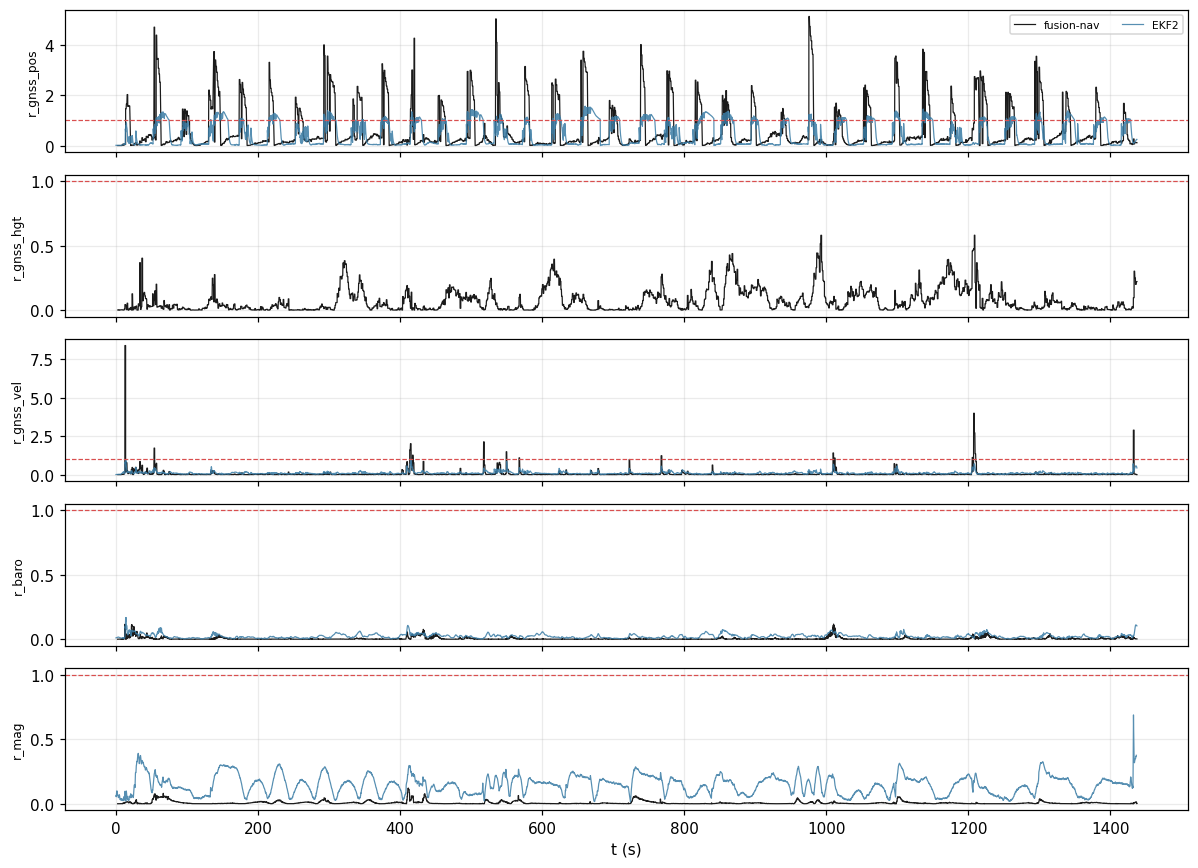
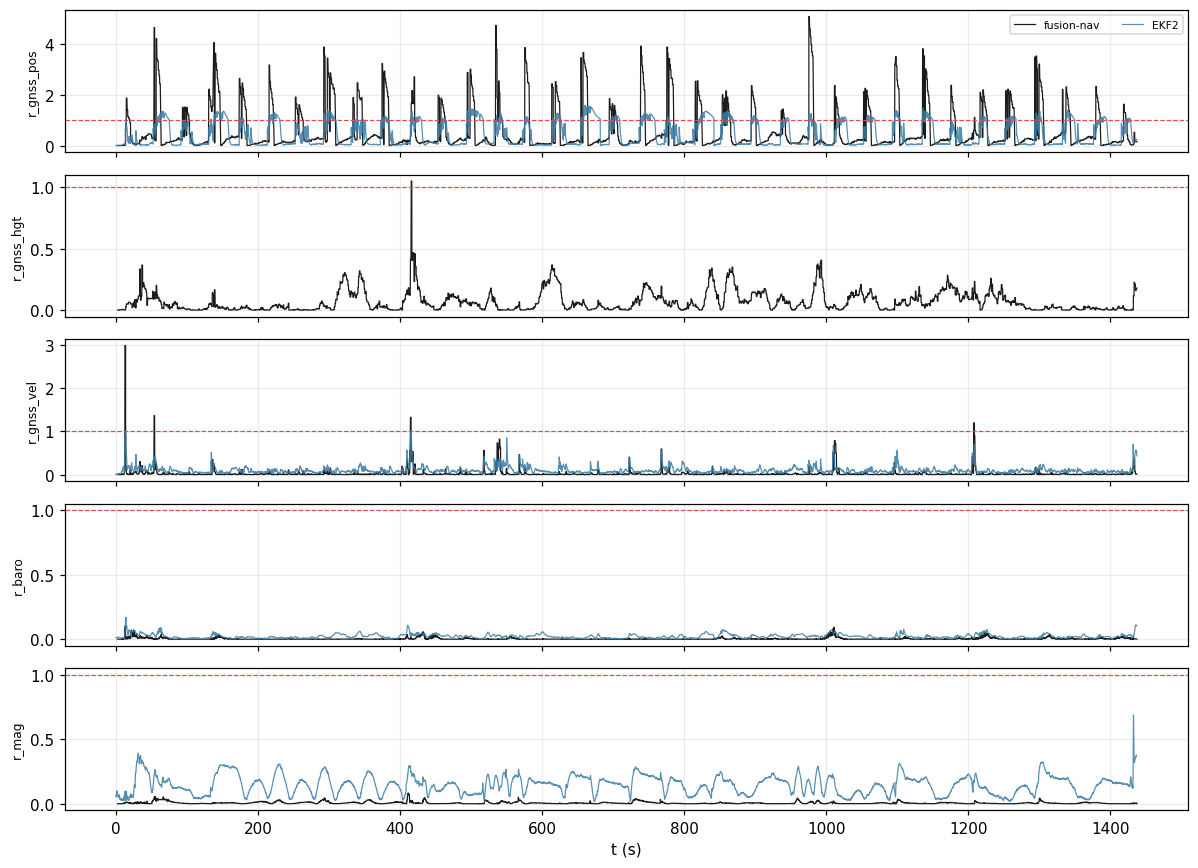
validation: regenerate (#52)

diff --git a/validation/ekf2.md b/validation/ekf2.md
@@ -2,13 +2,13 @@
 # Agreement with EKF2
 
 **On real flights, does it agree with the estimator PX4 flies?** Mostly, and closely. On the log
-with the most precise receiver (RTK), velocity agrees to 0.1064
-m/s RMS north and tilt to 0.3702° RMS. Where the two differ,
+with the most precise receiver (RTK), velocity agrees to 0.04821
+m/s RMS north and tilt to 0.2420° RMS. Where the two differ,
 the log usually shows why: a receiver that overstates its accuracy, a hand launch this filter
 levels wrong, and a barometer the two filters trust differently. One offset has no explanation
 yet, and is marked as open.
 
-Generated by `tools/validation.sh` at `21e6a39`; every figure on this page is from that build, and `tools/validation.sh --check` re-derives them.
+Generated by `tools/validation.sh` at `c0b3a4a`; every figure on this page is from that build, and `tools/validation.sh --check` re-derives them.
 
 **EKF2 is not the truth.** Real flight logs carry no true trajectory, so every number here is a
 distance between two estimators fed the same sensor data. It measures agreement, never
@@ -34,35 +34,35 @@ Replayed `raw`:
 
 | run | `pos_n_rms` | `pos_e_rms` | `pos_d_rms` | `vel_n_rms` | `tilt_diff_rms` | `heading_diff_med` | `rej_s_gnss_pos` | `rej_s_gnss_pos_ekf2` |
 |---|---|---|---|---|---|---|---|---|
-| `3949f175/raw` | 0.3451 | 0.1938 | 0.2748 | 0.1235 | 0.5840 | 17.41 | 0.000 | 0.000 |
-| `f16771dd/raw` | none | none | none | 4.001 | 1.531 | 170.1 | none | 0.000 |
-| `a299e722/raw` | 1.001 | 1.673 | 2.614 | 0.4636 | 2.108 | 13.55 | 0.000 | 0.000 |
+| `3949f175/raw` | 0.1022 | 0.1083 | 0.2640 | 0.09179 | 0.5668 | 17.48 | 0.000 | 0.000 |
+| `f16771dd/raw` | none | none | none | 3.998 | 1.531 | 170.1 | none | 0.000 |
+| `a299e722/raw` | 2.075 | 15.60 | 2.589 | 0.8601 | 3.190 | 4.860 | 7.000 | 0.000 |
 | `7592c9b2/raw` | none | none | none | 0.5181 | 0.7511 | 0.4907 | none | 0.000 |
-| `2c42096b/raw` | 0.2912 | 0.2765 | 11.23 | 0.09055 | 0.3351 | 0.5530 | 0.000 | 0.000 |
-| `89a498ce/raw` | 4.739 | 1.816 | 0.6877 | 0.1064 | 0.3702 | 0.8890 | 0.000 | 0.000 |
-| `eb799954/raw` | 0.7337 | 0.8546 | 0.5987 | 0.1285 | 0.3661 | 4.938 | 0.000 | 0.000 |
-| `cd7e0001/raw` | 1.750 | 2.013 | 1.222 | 0.1385 | 0.3920 | 1.036 | 0.000 | 0.000 |
-| `285ee2e7/raw` | 0.5599 | 0.8803 | 1.576 | 0.1471 | 0.4736 | 1.318 | 2.996 | 0.000 |
-| `4b473e91/raw` | 1.435 | 2.675 | 0.6497 | 0.3589 | 0.7082 | 3.371 | 2.007 | 0.000 |
-| `7ce66f0d/raw` | 17.33 | 21.44 | 10.66 | 4.864 | 2.488 | 5.309 | 93.92 | 0.000 |
-| `093e806a/raw` | 1.595 | 1.813 | 0.6062 | 0.2660 | 0.5448 | 2.069 | 278.8 | 304.9 |
+| `2c42096b/raw` | 0.2964 | 0.2724 | 11.23 | 0.09171 | 0.3656 | 0.5749 | 0.000 | 0.000 |
+| `89a498ce/raw` | 4.665 | 1.753 | 0.6869 | 0.04821 | 0.2420 | 0.7954 | 0.000 | 0.000 |
+| `eb799954/raw` | 0.5670 | 0.7678 | 0.5788 | 0.1184 | 0.5110 | 5.240 | 0.000 | 0.000 |
+| `cd7e0001/raw` | 1.102 | 1.480 | 1.222 | 0.1017 | 0.3301 | 1.609 | 0.000 | 0.000 |
+| `285ee2e7/raw` | 0.4088 | 0.7683 | 1.584 | 0.1196 | 0.5291 | 1.469 | 2.996 | 0.000 |
+| `4b473e91/raw` | 1.111 | 1.805 | 0.6038 | 0.2962 | 0.6155 | 2.772 | 0.000 | 0.000 |
+| `7ce66f0d/raw` | 21.83 | 22.54 | 11.44 | 6.499 | 3.868 | 2.457 | 111.0 | 0.000 |
+| `093e806a/raw` | 1.556 | 1.640 | 0.5769 | 0.1657 | 0.4953 | 1.522 | 268.7 | 304.9 |
 
 Replayed `px4`:
 
 | run | `pos_n_rms` | `pos_e_rms` | `pos_d_rms` | `vel_n_rms` | `tilt_diff_rms` | `heading_diff_med` | `rej_s_gnss_pos` | `rej_s_gnss_pos_ekf2` |
 |---|---|---|---|---|---|---|---|---|
-| `3949f175/px4` | 0.3451 | 0.1938 | 0.2747 | 0.1236 | 0.5844 | 17.41 | 0.000 | 0.000 |
-| `f16771dd/px4` | none | none | none | 4.001 | 1.531 | 170.1 | none | 0.000 |
-| `a299e722/px4` | 0.4163 | 0.3887 | 1.216 | 0.3531 | 1.963 | 7.590 | 0.000 | 0.000 |
+| `3949f175/px4` | 0.1022 | 0.1083 | 0.2680 | 0.09181 | 0.5670 | 17.48 | 0.000 | 0.000 |
+| `f16771dd/px4` | none | none | none | 3.998 | 1.531 | 170.1 | none | 0.000 |
+| `a299e722/px4` | 0.4877 | 0.3323 | 1.218 | 0.4208 | 1.944 | 6.933 | 0.000 | 0.000 |
 | `7592c9b2/px4` | none | none | none | 0.5181 | 0.7511 | 0.4907 | none | 0.000 |
-| `2c42096b/px4` | 0.2899 | 0.2752 | 11.22 | 0.09054 | 0.2414 | 0.3997 | 0.000 | 0.000 |
-| `89a498ce/px4` | 4.729 | 1.826 | 1.080 | 0.09774 | 0.2526 | 0.6958 | 0.000 | 0.000 |
-| `eb799954/px4` | 0.6792 | 0.8092 | 1.070 | 0.1247 | 0.3582 | 5.037 | 0.000 | 0.000 |
-| `cd7e0001/px4` | 1.533 | 1.959 | 1.165 | 0.1303 | 0.3530 | 1.556 | 0.000 | 0.000 |
-| `285ee2e7/px4` | 0.3696 | 0.5699 | 2.162 | 0.1339 | 0.3517 | 1.058 | 0.000 | 0.000 |
-| `4b473e91/px4` | 1.430 | 2.704 | 0.6987 | 0.3573 | 0.7432 | 3.639 | 2.007 | 0.000 |
-| `7ce66f0d/px4` | 16.70 | 20.92 | 10.60 | 4.788 | 2.269 | 5.615 | 101.0 | 0.000 |
-| `093e806a/px4` | 1.576 | 1.798 | 0.8350 | 0.2386 | 0.4697 | 1.941 | 26.13 | 304.9 |
+| `2c42096b/px4` | 0.2948 | 0.2708 | 11.22 | 0.09172 | 0.2708 | 0.4353 | 0.000 | 0.000 |
+| `89a498ce/px4` | 4.655 | 1.757 | 1.056 | 0.04111 | 0.1799 | 0.6368 | 0.000 | 0.000 |
+| `eb799954/px4` | 0.5134 | 0.7159 | 1.063 | 0.1173 | 0.4168 | 5.269 | 0.000 | 0.000 |
+| `cd7e0001/px4` | 0.8682 | 1.380 | 1.152 | 0.09100 | 0.3327 | 1.913 | 0.000 | 0.000 |
+| `285ee2e7/px4` | 0.2446 | 0.3461 | 2.010 | 0.09052 | 0.3675 | 1.213 | 0.000 | 0.000 |
+| `4b473e91/px4` | 1.119 | 1.819 | 0.6861 | 0.2964 | 0.6448 | 3.179 | 0.000 | 0.000 |
+| `7ce66f0d/px4` | 19.84 | 21.94 | 10.86 | 6.044 | 3.193 | 2.192 | 111.0 | 0.000 |
+| `093e806a/px4` | 1.601 | 1.744 | 0.8200 | 0.1452 | 0.4591 | 1.572 | 27.13 | 304.9 |
 
 Columns, each a difference between EKF2 and this filter:
 - `pos_n_rms`, `pos_e_rms` and `pos_d_rms`: position north, east and down, in metres RMS, after
@@ -85,9 +85,10 @@ Some rows are explained by the log, not by either filter:
 - `3949f175` is a simulation (PX4 SITL) whose magnetic declination setting does not match the
   field its simulator generated. It is kept for its log format.
 - `a299e722` has a receiver whose velocities contradict its own positions. Trusting it fully,
-  this filter refuses many of its velocities and the two estimates drift apart. With EKF2's
-  floors they come closer: heading differs by 7.590°
-  against 13.55°.
+  this filter refuses many of its velocities and the two estimates drift apart, until its
+  positions are refused too and adopted back. With EKF2's floors they stay together: east
+  position differs by 0.3323 m RMS against
+  15.60 m.
 
 The sections below look closer at the logs that each test something the others do not, ending
 with the one where this filter clearly does worse.
@@ -96,7 +97,7 @@ with the one where this filter clearly does worse.
 
 A quadrotor mission with an RTK receiver, flying 4069.8 m out at up to
 10.2 m/s. Velocity and attitude agree closely. Position does not,
-in one direction: EKF2 sits 4.739 m RMS north of this filter,
+in one direction: EKF2 sits 4.665 m RMS north of this filter,
 and north of its own receiver's fixes too, which this filter follows. Nothing found so far
 explains that offset, so it is listed as open rather than blamed on either filter.
 
@@ -114,8 +115,8 @@ A fixed-wing aircraft flying 1137.1 m out at up to
 24.1 m/s. Its receiver claims sub-metre accuracy, but its own
 velocities contradict its positions. How long each filter spent refusing its positions:
 
-- this filter, trusting the receiver fully (`raw`): 278.8 s;
-- this filter, with EKF2's floors (`px4`): 26.13 s;
+- this filter, trusting the receiver fully (`raw`): 268.7 s;
+- this filter, with EKF2's floors (`px4`): 27.13 s;
 - EKF2: 304.9 s.
 
 So how much the receiver is trusted explains most of the difference between the filters, and
@@ -138,8 +139,8 @@ set to take its height from the barometer (its log records the height reference 
 height together, and trusts GNSS for slow changes. The barometer drifts over the two hours, so
 the two heights move apart. From the average of the first minute to the average of the last,
 EKF2's height changes by 11.97 m and this filter's by
--7.265 m (up is positive). With no true height, nothing here says
-which is right. Horizontally the two agree to 0.2912 m RMS north.
+-7.316 m (up is positive). With no true height, nothing here says
+which is right. Horizontally the two agree to 0.2964 m RMS north.
 
 ![states_position_ned for 2c42096b/raw](figures/2c42096b-raw/states_position_ned.png)
 
@@ -151,7 +152,7 @@ A VTOL aircraft that hovers, transitions and cruises 2054.6 m out at
 up to 31.1 m/s. Its log loses the IMU
 8 times, each gap too long to integrate as one step. This filter
 carries its velocity through each gap and accepts the next GNSS fix, and the two tracks stay
-together through the cruise (2.675 m RMS east).
+together through the cruise (1.805 m RMS east).
 
 ![track for 4b473e91/raw](figures/4b473e91-raw/track.png)
 
@@ -160,8 +161,8 @@ Estimate, EKF2's own solution where the log carries one, and the raw GNSS fixes 
 ## Past the vertical: `285ee2e7`
 
 A tailsitter, which flies forward pitched through 90°, reaching
-124.8° of tilt. The two filters' tilt agrees to
-0.4736° RMS through the transitions between hover and forward
+123.7° of tilt. The two filters' tilt agrees to
+0.5291° RMS through the transitions between hover and forward
 flight.
 
 ![attitude for 285ee2e7/raw](figures/285ee2e7-raw/attitude.png)
@@ -174,12 +175,12 @@ A flying wing launched by hand. This filter finds which way is down by averaging
 accelerometer over its first moments, which only works when the vehicle is still. Here those
 moments are the throw, so it starts with the wrong tilt. For the first minutes its position
 swings away from EKF2's and from the GNSS fixes, and it resets itself to a fix
-28 times over the flight. After that the positions track each
+36 times over the flight. After that the positions track each
 other, but the filter reports `Degraded` for most of the flight and ends there
 (Degraded). Over the whole log, position differs from EKF2's by
-21.44 m RMS east and tilt by
-2.488° RMS, and this filter spends
-93.92 s refusing GNSS positions where EKF2 spends
+22.54 m RMS east and tilt by
+3.868° RMS, and this filter spends
+111.0 s refusing GNSS positions where EKF2 spends
 0.000 s.
 
 This is a loss with a known cause. Starting while moving needs the vehicle's own acceleration

diff --git a/validation/honesty.md b/validation/honesty.md
@@ -2,12 +2,12 @@
 # Honesty of the reported uncertainty
 
 **When the filter says "I'm within a metre", is it?** Yes, with room to spare, on every
-simulated scenario except `gnss_latency` and `correlated`. On the baseline flight, the fraction of checks where the
+simulated scenario except `correlated`. On the baseline flight, the fraction of checks where the
 true value sat inside the filter's ±3σ band was 1.0000, where 1 is every check.
-In those two scenarios the filter claims more accuracy than it has: when GNSS fixes arrive late, and when
-sensor errors persist longer than it assumes. This page shows both.
+In `correlated` the filter claims more accuracy than it has, because sensor errors persist longer
+than it assumes. This page shows that, and a fault it used to fail on and no longer does.
 
-Generated by `tools/validation.sh` at `21e6a39`; every figure on this page is from that build, and `tools/validation.sh --check` re-derives them.
+Generated by `tools/validation.sh` at `c0b3a4a`; every figure on this page is from that build, and `tools/validation.sh --check` re-derives them.
 
 ## Why this is its own question
 
@@ -48,7 +48,7 @@ The same flights the [accuracy page](accuracy.md) scores.
 | `gnss_outage` | 2 | 1.0000 | 0.2080 | 0.0950 | 0.0165 | 0 |
 | `moving_start` | 4 | 1.0000 | 0.1539 | 0.1075 | 0.0334 | 0 |
 | `baro_drift` | 2 | 1.0000 | 0.4413 | 0.1046 | 0.0163 | 0 |
-| `gnss_latency` | 2 | 0.9652 | 4.0574 | 1.1109 | 0.0639 | 280 |
+| `gnss_latency` | 2 | 1.0000 | 0.0841 | 0.1017 | 0.0164 | 0 |
 | `correlated` | 2 | 0.9982 | 1.7157 | 0.2884 | 0.2372 | 0 |
 | `mag_disturbance` | 2 | 1.0000 | 0.0896 | 0.1043 | 0.0168 | 0 |
 | `logging_dropout` | 2 | 1.0000 | 0.0844 | 0.1049 | 0.0185 | 0 |
@@ -70,7 +70,7 @@ an application would act on a wrong answer.
 | `gnss_outage` | 0.1420 | 0.0945 | 0.0187 | 0 | 0 | 0 |
 | `moving_start` | 0.2826 | 0.1102 | 0.0286 | 0 | 0 | 0 |
 | `baro_drift` | 0.3929 | 0.1030 | 0.0195 | 0 | 0 | 0 |
-| `gnss_latency` | 4.0577 | 1.0864 | 0.0666 | 31589 | 6426 | 0 |
+| `gnss_latency` | 0.1084 | 0.1005 | 0.0195 | 0 | 0 | 0 |
 | `correlated` | 1.4498 | 0.2966 | 0.2064 | 5197 | 0 | 0 |
 | `mag_disturbance` | 0.1184 | 0.1031 | 0.0327 | 0 | 0 | 0 |
 | `logging_dropout` | 0.1147 | 0.1040 | 0.0219 | 0 | 0 | 0 |
@@ -98,14 +98,14 @@ the upper solid line it is overconfident beyond chance.
 
 NEES per degree of freedom at each epoch, averaged over 50 seeds of this scenario by <code>tools/anees.py</code>, against the chi-square bounds <code>data/anees.sh</code> gates: the dashed line is the per-epoch 95 % bound <code>over_</code> counts, the solid one the family-wise bound <code>any_</code> counts. Log scale; 1 is a covariance that describes its error exactly, and below it is underconfident.
 
-### Overconfident: fixes that arrive late
+### Fixes that arrive late
 
-In `gnss_latency` every GNSS fix arrives 150 ms after the moment it describes, and the filter
-uses it as if it were current. The resulting position error depends on how fast the vehicle is
-moving, and the filter's model has no way to represent that, so it reports less uncertainty than
-it has for most of the flight. Position ANEES is 4.0577, over the
-strict bound at 31589 of 36600 moments.
-Whether the filter gains a model for delayed measurements, or documents the limit, is #52.
+In `gnss_latency` every GNSS fix arrives 150 ms after the moment it describes. Used as if it were
+current, a fix would carry an error that grows with speed and that the filter's uncertainty does
+not include, and the filter would claim more accuracy than it has. It is told when each fix was
+taken and compares the fix with where it estimated the vehicle was then, so the error never
+arises. Position ANEES is 0.1084, over the strict bound at
+0 of 36600 moments.
 
 ![anees for gnss_latency](figures/gnss_latency/anees.png)
 

diff --git a/VALIDATION.md b/VALIDATION.md
@@ -8,7 +8,7 @@ where it claims more accuracy than it has, are named below. On real PX4 flights,
 is known exactly, it mostly agrees with EKF2, the estimator PX4 flies, and each place the two
 disagree is shown with its cause, or marked as not yet explained.
 
-Generated by `tools/validation.sh` at `21e6a39`; every figure on this page is from that build, and `tools/validation.sh --check` re-derives them.
+Generated by `tools/validation.sh` at `c0b3a4a`; every figure on this page is from that build, and `tools/validation.sh --check` re-derives them.
 
 ## How to read these pages
 
@@ -41,19 +41,17 @@ Position error, truth minus estimate, on navigation axes, inside the filter's ow
 ## [Honesty](validation/honesty.md): when it says "within a metre", is it?
 
 Tested over 50 flights of each simulated scenario. The filter is pessimistic
-everywhere except in these cases, each with an open issue:
-- **GNSS fixes that arrive late** (#52). The filter has no model for measurement delay yet.
-- **Sensor errors that persist longer than the filter assumes** (#51).
+everywhere except where sensor errors persist longer than it assumes (#51).
 
-![anees for gnss_latency](validation/figures/gnss_latency/anees.png)
+![anees for correlated](validation/figures/correlated/anees.png)
 
 NEES per degree of freedom at each epoch, averaged over 50 seeds of this scenario by <code>tools/anees.py</code>, against the chi-square bounds <code>data/anees.sh</code> gates: the dashed line is the per-epoch 95 % bound <code>over_</code> counts, the solid one the family-wise bound <code>any_</code> counts. Log scale; 1 is a covariance that describes its error exactly, and below it is underconfident.
 
 ## [Robustness](validation/robustness.md): what happens when a sensor fails?
 
 A GNSS outage, a magnetic disturbance, a gap in the log and a drifting barometer. In each, the
-error stays inside the band and the filter's status reports the problem. Late GNSS fixes are the
-fault it does not handle yet.
+error stays inside the band and the filter's status reports the problem. GNSS fixes that arrive
+late are placed at the moment they describe, and cost nothing.
 
 ![error_position for gnss_outage](validation/figures/gnss_outage/error_position.png)
 
@@ -63,8 +61,8 @@ Position error, truth minus estimate, on navigation axes, inside the filter's ow
 
 12 public PX4 flight logs, from quadrotors to fixed-wing and VTOL aircraft.
 On the log with the most precise receiver (RTK), velocity agrees to
-0.1064 m/s RMS north and tilt to
-0.3702°. The largest disagreement is a hand-launched aircraft
+0.04821 m/s RMS north and tilt to
+0.2420°. The largest disagreement is a hand-launched aircraft
 whose attitude this filter gets wrong at startup, a known gap (#59).
 
 ![track for 89a498ce/raw](validation/figures/89a498ce-raw/track.png)

diff --git a/validation/robustness.md b/validation/robustness.md
@@ -4,10 +4,10 @@
 **What happens when a sensor lies or goes quiet?** In each simulated fault below, the error
 stays inside the band of uncertainty the filter reports. During the fault the filter either
 widens that band or refuses the bad measurements, and its `Status` reports that something is
-wrong. The exception is GNSS fixes that arrive late: the filter has no model for that yet, and
-it pays in accuracy and in honesty.
+wrong. GNSS fixes that arrive late are a fault it absorbs rather than reports: each is used at
+the moment it describes.
 
-Generated by `tools/validation.sh` at `21e6a39`; every figure on this page is from that build, and `tools/validation.sh --check` re-derives them.
+Generated by `tools/validation.sh` at `c0b3a4a`; every figure on this page is from that build, and `tools/validation.sh --check` re-derives them.
 
 ## How to read these figures
 
@@ -79,14 +79,13 @@ Position error, truth minus estimate, on navigation axes, inside the filter's ow
 
 ## GNSS fixes 150 ms late
 
-This is the fault the filter does not handle. It uses each fix as if it described the present
-moment, so the position error follows the vehicle's speed, and the orange line leaves the band
-again and again. Position is off by 2.197 m RMS against
-0.292 m on the baseline. For 280 moments the
-filter told the application a quantity was usable while its real error was worse than the
-configured accuracy. The [honesty page](honesty.md#overconfident-fixes-that-arrive-late) shows
-this across many flights. Whether the filter gains a model for delayed measurements, or
-documents the limit, is #52.
+Every GNSS fix describes where the vehicle was 150 ms before it arrives. Used as if it described
+the present, a fix would be wrong by the distance flown in that time. The filter is told when each
+fix was taken and compares it with where it estimated the vehicle was at that moment, so the
+delay costs nothing: position is off by 0.295 m RMS against
+0.292 m on the baseline. The filter called a quantity usable while its real
+error was worse than the configured accuracy at 0 moments.
+The [honesty page](honesty.md#fixes-that-arrive-late) shows the same across many flights.
 
 ![error_position for gnss_latency](figures/gnss_latency/error_position.png)
 

diff --git a/validation/accuracy.md b/validation/accuracy.md
@@ -8,7 +8,7 @@ flight, horizontal position is off by 0.292 m RMS and never by more than
 trajectory, so they show how the filter handles the errors the simulator models, not every
 error a real vehicle has.
 
-Generated by `tools/validation.sh` at `21e6a39`; every figure on this page is from that build, and `tools/validation.sh --check` re-derives them.
+Generated by `tools/validation.sh` at `c0b3a4a`; every figure on this page is from that build, and `tools/validation.sh --check` re-derives them.
 
 ## Where the truth comes from
 
@@ -38,7 +38,7 @@ Each scenario exists to test one thing no other scenario covers:
 | `gnss_outage` | 2 | 1.634 | 10.964 | 0.098 | 0.210 | 0.338 | 0.325 |
 | `moving_start` | 4 | 0.359 | 0.695 | 0.606 | 0.145 | 1.555 | 1.458 |
 | `baro_drift` | 2 | 0.292 | 0.767 | 0.918 | 0.139 | 0.329 | 0.288 |
-| `gnss_latency` | 2 | 2.197 | 3.566 | 0.166 | 0.459 | 0.670 | 0.588 |
+| `gnss_latency` | 2 | 0.295 | 0.789 | 0.158 | 0.144 | 0.338 | 0.291 |
 | `correlated` | 2 | 1.152 | 2.390 | 1.143 | 0.231 | 0.700 | 2.306 |
 | `mag_disturbance` | 2 | 0.292 | 0.767 | 0.171 | 0.138 | 0.332 | 0.309 |
 | `logging_dropout` | 2 | 0.293 | 2.733 | 0.151 | 0.141 | 0.406 | 0.393 |
@@ -64,10 +64,9 @@ for. Against `mission`:
 - `baro_drift` has a barometer whose zero drifts. Height suffers:
   0.918 m RMS against 0.171 m, and the filter reports it
   ([robustness](robustness.md#a-drifting-barometer)).
-- `gnss_latency` delivers every GNSS fix 150 ms late, and the filter uses each as if it were
-  current. Position suffers most: 2.197 m RMS against
-  0.292 m. The filter has no model for delay yet (#52), and it is also
-  overconfident here ([honesty](honesty.md#overconfident-fixes-that-arrive-late)).
+- `gnss_latency` delivers every GNSS fix 150 ms late, and the filter uses each at the moment it
+  describes. Position is 0.295 m RMS against 0.292 m,
+  and the filter is honest about it ([honesty](honesty.md#fixes-that-arrive-late)).
 - `correlated` makes every sensor's errors change more slowly than the filter assumes. Heading
   suffers most, 2.306° against 0.289°, and the filter is
   overconfident about position (#51).
